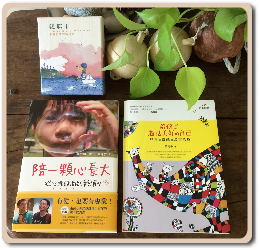
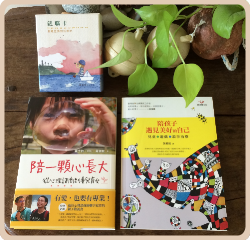
修正壓縮模糊的照片

diff --git a/sales_area.html b/sales_area.html
@@ -102,7 +102,7 @@
                     <p><img src="images/group_p1.png" width="700" height="3" /></p>
                     <p><font size="5" color="#FF6600">✧ 購買資訊:</font></p>
                     <p>▼ 親職卡</p>
-                    <img src="images/parenting_card_all.png" width="260" height="250" align="Right"  />
+                    <img src="images/parenting_card_all.png" width="250" height="240" align="Right"  />
                     <p style="margin-left:50px;margin-right:00px">● 原價：900元/盒</p>
                     <p style="margin-left:50px;margin-right:00px"> ● 優惠價：680元/盒</p>
                     <p>▼ 親職全系列：卡片1套＋書籍2本</p>
